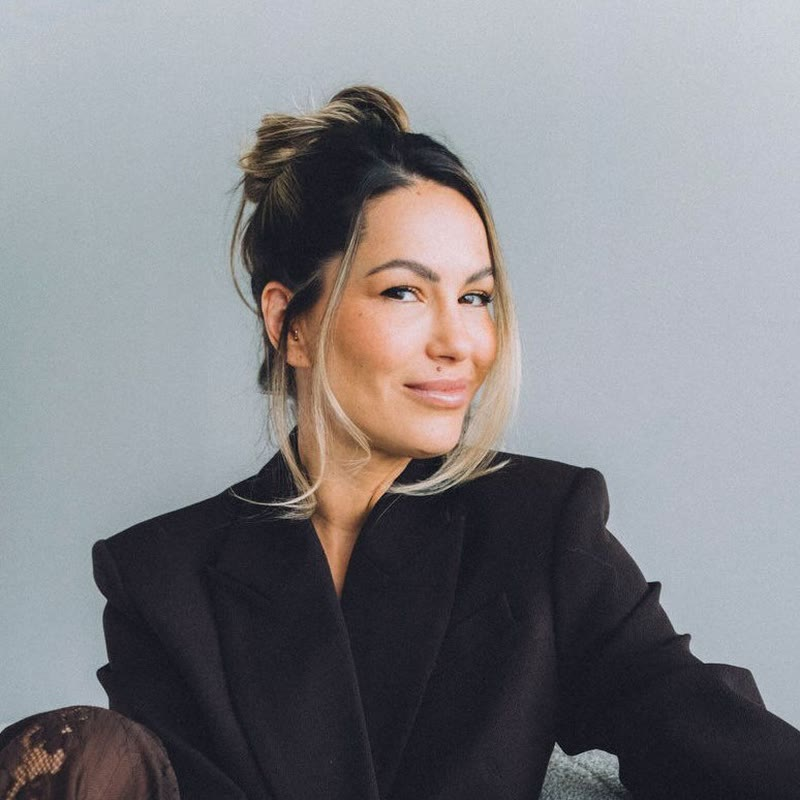
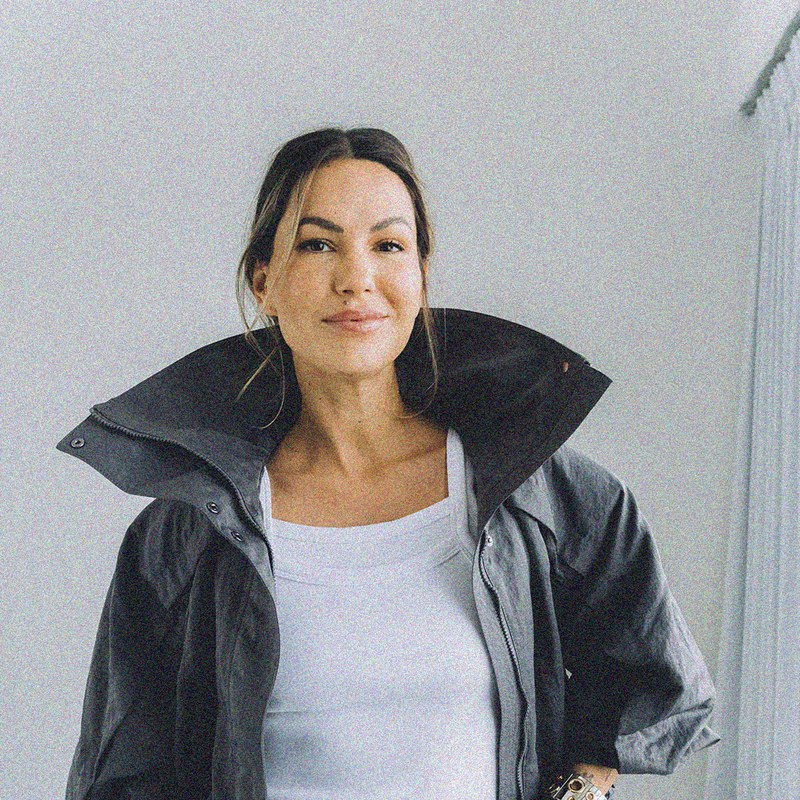
Comunidad: Romina Sacre a Voces FICC; FFGF visible con Elena Fortes y Nico Celis
- Foto nueva de Romina Sacre (crop 800x800), movida de Community Leaders a Voces FICC
- Foto nueva de Nico Celis; Elena Fortes reactivada con foto existente
- Bruno Santamaría Razo: nombre actualizado, sigue tbc (sin foto)

diff --git a/src/app/comunidad/page.tsx b/src/app/comunidad/page.tsx
@@ -108,12 +108,12 @@ const groups: Group[] = [
     title: "Fondo Fílmico Gabriel Figueroa",
     accent: "var(--color-wine)",
     people: [
-      { name: "Elena Fortes", tbc: true },
+      { name: "Elena Fortes", image: "/images/comunidad/elena-fortes.jpg" },
       { name: "Juan Pablo Bastarrachea", tbc: true },
-      { name: "Bruno Santamaría", tbc: true },
+      { name: "Bruno Santamaría Razo", tbc: true },
       { name: "Ximena Urrutia Partida", tbc: true },
       { name: "Michel Lipkes Leduc", tbc: true },
-      { name: "Nico Celis", tbc: true },
+      { name: "Nico Celis", image: "/images/comunidad/nico-celis.jpg" },
     ],
   },
   {
@@ -128,6 +128,7 @@ const groups: Group[] = [
       { name: "David Zonana", image: "/images/comunidad/david-zonana.jpg" },
       { name: "Damián Romero", image: "/images/comunidad/damian-romero.jpg" },
       { name: "Anamaria Sayre", image: "/images/comunidad/anamaria-sayre.jpg" },
+      { name: "Romina Sacre", image: "/images/comunidad/romina-sacre.jpg" },
     ],
   },
   {
@@ -136,7 +137,6 @@ const groups: Group[] = [
     accent: "var(--color-acid)",
     people: [
       { name: "Mario Escobar", tbc: true },
-      { name: "Romina Sacre", tbc: true },
     ],
   },
 ];